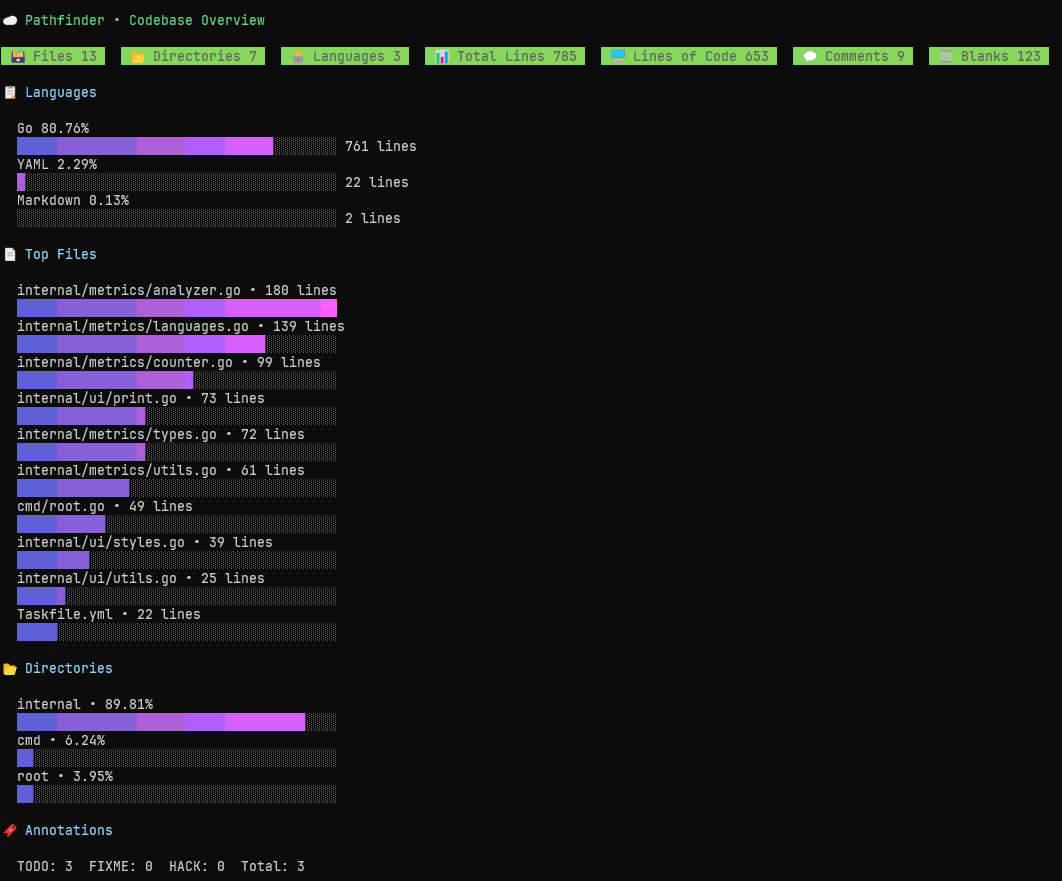
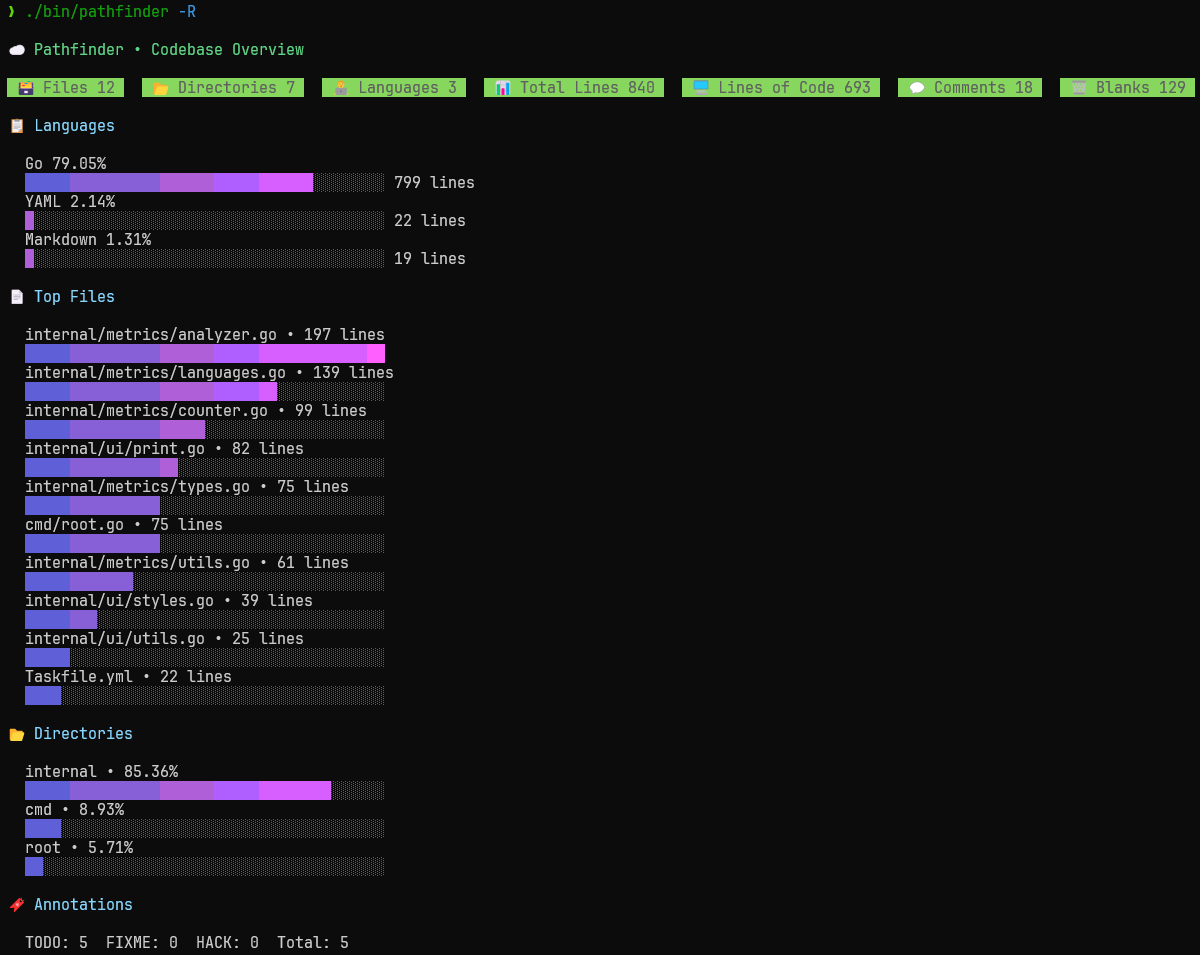
add buffer size and recursion options + handle empty codebases

Changed region(s): [[0.0, 0.0, 1.0, 1.0]]

diff --git a/cmd/root.go b/cmd/root.go
@@ -1,17 +1,21 @@
 package cmd
 
 import (
+	"fmt"
 	"os"
 	"path/filepath"
 
 	"github.com/andrearcaina/pathfinder/internal/metrics"
-	"github.com/andrearcaina/pathfinder/internal/runner"
+	"github.com/andrearcaina/pathfinder/internal/ui"
 	"github.com/spf13/cobra"
 )
 
 var (
-	pathFlag   string
-	hiddenFlag bool
+	pathFlag       string
+	hiddenFlag     bool
+	bufferSizeFlag int
+	recursiveFlag  bool
+	maxDepthFlag   int
 )
 
 var rootCmd = &cobra.Command{
@@ -24,15 +28,34 @@ Examples:
   pathfinder
   pathfinder --path /path/to/codebase`,
 	RunE: func(cmd *cobra.Command, args []string) error {
+		if !recursiveFlag && maxDepthFlag != -1 {
+			fmt.Println("Warning: --max-depth flag is ignored when --recursive is false.")
+			return nil
+		}
+
 		pathFlag, err := filepath.Abs(pathFlag)
 		if err != nil {
 			return err
 		}
 
-		return runner.Run(metrics.Flags{
-			PathFlag:   pathFlag,
-			HiddenFlag: hiddenFlag,
+		if bufferSizeFlag != 4 && bufferSizeFlag != 8 && bufferSizeFlag != 16 && bufferSizeFlag != 32 && bufferSizeFlag != 64 {
+			fmt.Println("Invalid Buffer Size. Allowed values are 4, 8, 16, 32, 64 (in KB).")
+			return nil
+		}
+
+		report, err := metrics.Analyze(metrics.Flags{
+			PathFlag:       pathFlag,
+			HiddenFlag:     hiddenFlag,
+			BufferSizeFlag: bufferSizeFlag * 1024, // convert KB to bytes for internal use
+			RecursiveFlag:  recursiveFlag,
+			MaxDepthFlag:   maxDepthFlag,
 		})
+		if err != nil {
+			return err
+		}
+
+		ui.PrintReport(report)
+		return nil
 	},
 }
 
@@ -46,4 +69,7 @@ func Execute() {
 func init() {
 	rootCmd.Flags().StringVarP(&pathFlag, "path", "p", ".", "Path to codebase/repository")
 	rootCmd.Flags().BoolVarP(&hiddenFlag, "hidden", "i", false, "Include hidden files and directories")
+	rootCmd.Flags().IntVarP(&bufferSizeFlag, "buffer-size", "b", 4, "Buffer size for reading files in KB. Options are 4, 8, 16, 32, 64")
+	rootCmd.Flags().BoolVarP(&recursiveFlag, "recursive", "R", false, "Scan directories recursively")
+	rootCmd.Flags().IntVarP(&maxDepthFlag, "max-depth", "m", -1, "Maximum recursion depth. Only works if --recursive is set")
 }

diff --git a/internal/metrics/analyzer.go b/internal/metrics/analyzer.go
@@ -32,6 +32,23 @@ func Analyze(flags Flags) (CodebaseReport, error) {
 			return nil
 		}
 
+		// if the user didn't set recursive flag, skip subdirectories
+		if !flags.RecursiveFlag && path != flags.PathFlag && d.IsDir() {
+			return fs.SkipDir
+		}
+
+		// if the user set max depth, skip directories deeper than max depth
+		if flags.RecursiveFlag && flags.MaxDepthFlag != -1 {
+			relPath, _ := filepath.Rel(flags.PathFlag, path)
+			depth := len(strings.Split(relPath, string(filepath.Separator)))
+			if depth > flags.MaxDepthFlag {
+				if d.IsDir() {
+					return fs.SkipDir
+				}
+				return nil
+			}
+		}
+
 		name := d.Name()
 
 		// skips files like .DS_Store, package-lock.json, etc.
@@ -74,10 +91,10 @@ func Analyze(flags Flags) (CodebaseReport, error) {
 		}
 
 		wg.Add(1)
-		go func(filePath string, langDef *LanguageDefinition) {
+		go func(filePath string, langDef *LanguageDefinition, bufferSize int) {
 			defer wg.Done()
 
-			code, comments, blanks, ann := CountFile(filePath, langDef.Type)
+			code, comments, blanks, ann := CountFile(filePath, bufferSize, langDef.Type)
 			if code == 0 && comments == 0 && blanks == 0 {
 				return
 			}
@@ -126,7 +143,7 @@ func Analyze(flags Flags) (CodebaseReport, error) {
 			})
 
 			return
-		}(path, langDefinition)
+		}(path, langDefinition, flags.BufferSizeFlag)
 
 		return nil
 	})

diff --git a/internal/metrics/counter.go b/internal/metrics/counter.go
@@ -7,7 +7,7 @@ import (
 	"os"
 )
 
-func CountFile(path string, commentType CommentType) (
+func CountFile(path string, bufferSize int, commentType CommentType) (
 	code int,
 	comments int,
 	blanks int,
@@ -19,16 +19,16 @@ func CountFile(path string, commentType CommentType) (
 	}
 	defer f.Close()
 
-	return scanLines(f, commentType)
+	return scanLines(f, bufferSize, commentType)
 }
 
-func scanLines(r io.Reader, commentType CommentType) (
+func scanLines(r io.Reader, bufferSize int, commentType CommentType) (
 	code int,
 	comments int,
 	blanks int,
 	ann AnnotationMetrics,
 ) {
-	br := bufio.NewReaderSize(r, bufio.MaxScanTokenSize)
+	br := bufio.NewReaderSize(r, bufferSize)
 	inBlockComment := false
 
 	for {

diff --git a/internal/metrics/types.go b/internal/metrics/types.go
@@ -1,8 +1,11 @@
 package metrics
 
 type Flags struct {
-	PathFlag   string // Path to the codebase/repository
-	HiddenFlag bool   // Include hidden files and directories
+	PathFlag       string // Path to the codebase/repository
+	HiddenFlag     bool   // Include hidden files and directories
+	BufferSizeFlag int    // Buffer size for reading files in bytes
+	RecursiveFlag  bool   // Scan directories recursively (default: false)
+	MaxDepthFlag   int    // Maximum recursion depth. Only works if RecursiveFlag is true
 	// TODO: add more flags (like dependencies)
 }
 

diff --git a/internal/ui/print.go b/internal/ui/print.go
@@ -10,6 +10,11 @@ import (
 const maxBarWidth = 40
 
 func PrintReport(report metrics.CodebaseReport) {
+	if report.CodebaseMetrics.TotalFiles == 0 {
+		fmt.Println("No files analyzed. Please check the path and try again.")
+		return // exit program
+	}
+
 	fmt.Println(TitleStyle().Render("☁ Pathfinder • Codebase Overview"))
 
 	fmt.Println(strings.Join([]string{

diff --git a/README.md b/README.md
@@ -1,4 +1,31 @@
 # pathfinder
-lightweight CLI to map &amp; track your code
+Blazingly fast, lightweight CLI to map & track your codebase.
 
+### Examples
+
+Below I ran `pathfinder` on this codebase with the `-R` flag to recursively scan all subdirectories.  
 ![img.png](images/pathfinder.png)
+
+Then I ran the same command, but instead on my installed Go libraries and packages in WSL to benchmark performance:
+```bash
+> time ./bin/pathfinder ../../../go/ -R
+
+...
+
+# time output
+./bin/pathfinder -p ../../../go/ -R  6.21s user 8.83s system 281% cpu 5.337 total
+```
+You can see that it takes a total of 5.337 seconds to run on my machine, utilizing 281% of the CPU.
+The CLI uses multiple cores via goroutines, which is why the CPU usage exceeds 100%.
+
+I then ran it again on the same directory:
+```bash
+> time ./bin/pathfinder ../../../go/ -R
+
+...
+
+# time output
+./bin/pathfinder -p ../../../go/ -R  5.08s user 3.51s system 665% cpu 1.292 total
+```
+This time it took only 1.292 seconds to run, utilizing 665% of the CPU.
+The second run is much faster because the OS caches file data in memory, reducing I/O overhead and allowing goroutines to utilize more cores efficiently.
